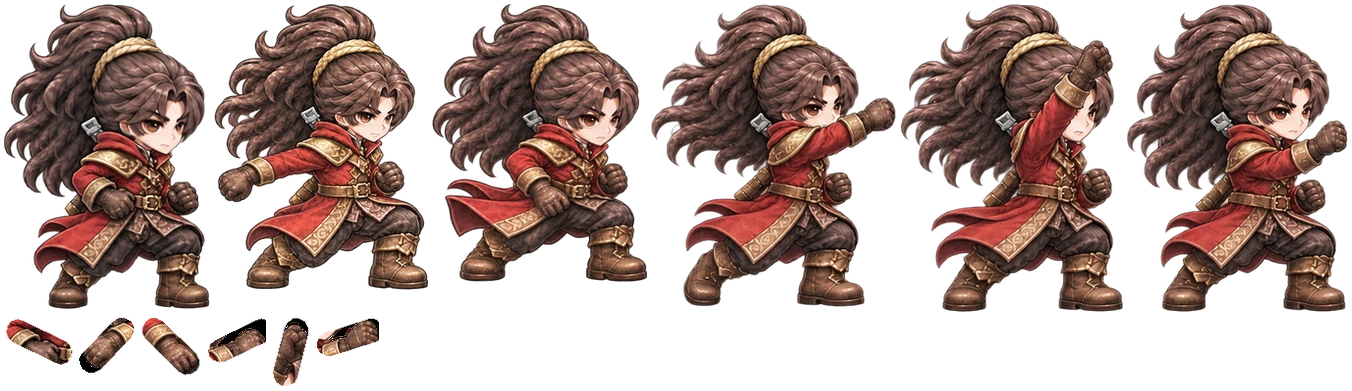
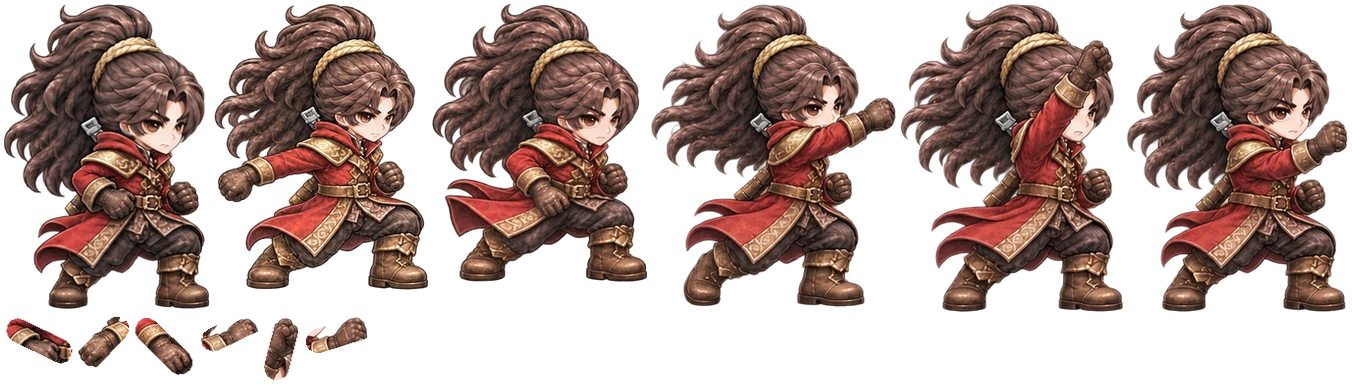
공격 스프라이트 알파 번짐·자세 연결 보정(down-diag gripCover, 후면 2타 발·3타 고개, 정면 3타 왼팔)

Changed region(s): [[0.0, 0.0623, 1.0, 0.9974], [0.0311, 0.0623, 0.0621, 0.0935]]

diff --git a/tools/build_attack_six.py b/tools/build_attack_six.py
@@ -13,7 +13,7 @@ import json
 import math
 from pathlib import Path
 
-from PIL import Image, ImageDraw
+from PIL import Image, ImageChops, ImageDraw
 
 ROOT = Path(__file__).resolve().parents[1] / 'src/assets/hero/academy/attack-six'
 CELL = 512
@@ -264,9 +264,10 @@ def build_sheet(sheet_def):
                 mask = Image.new('L', cell.size)
                 ImageDraw.Draw(mask).polygon(sheet_def['grip_covers'][i], fill=255)
                 alpha = mask.crop((left, top, right, bottom)).resize(body.size, Image.Resampling.LANCZOS)
-                cx, cy, cr, cb = alpha.getbbox()
+                combined = ImageChops.multiply(body.getchannel('A'), alpha)
+                cx, cy, cr, cb = combined.getbbox()
                 patch = body.crop((cx, cy, cr, cb))
-                patch.putalpha(alpha.crop((cx, cy, cr, cb)))
+                patch.putalpha(combined.crop((cx, cy, cr, cb)))
                 frame['gripCover'] = dict(name=f'{frame["name"]}-grip-cover', x=cx, y=cy, w=patch.width, h=patch.height)
                 covers.append((patch, frame['gripCover']))
             frames.append(frame)
